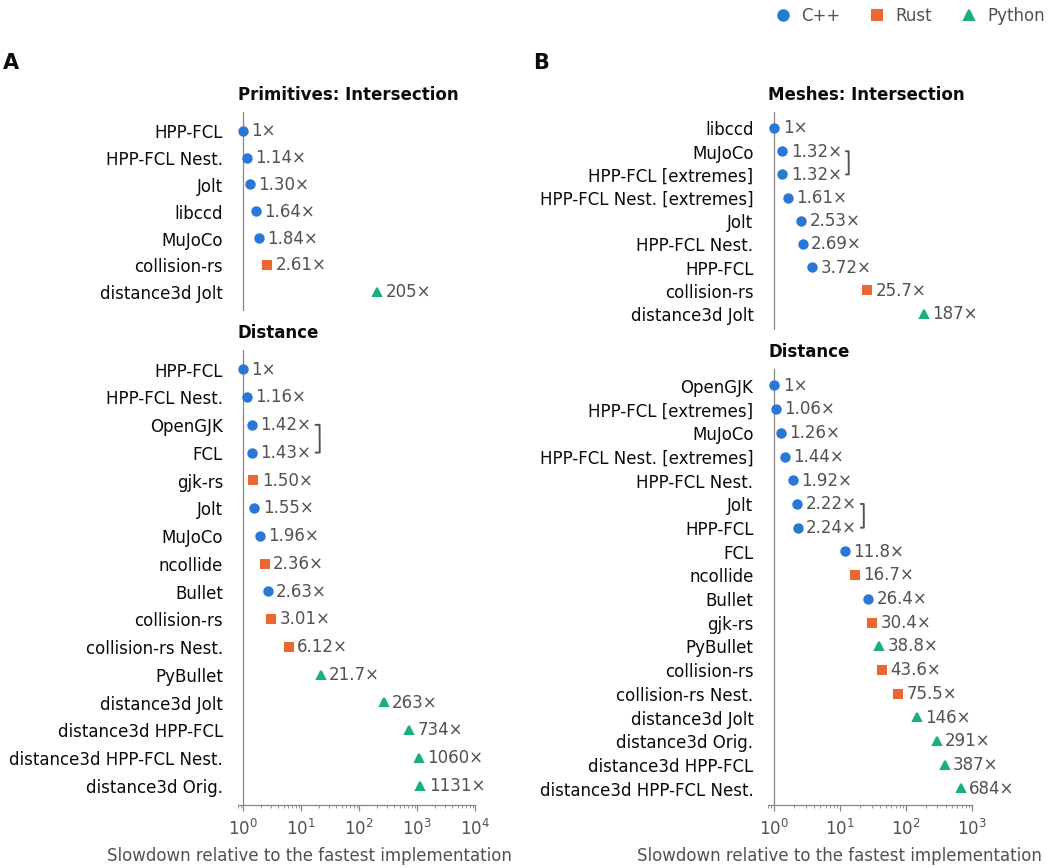
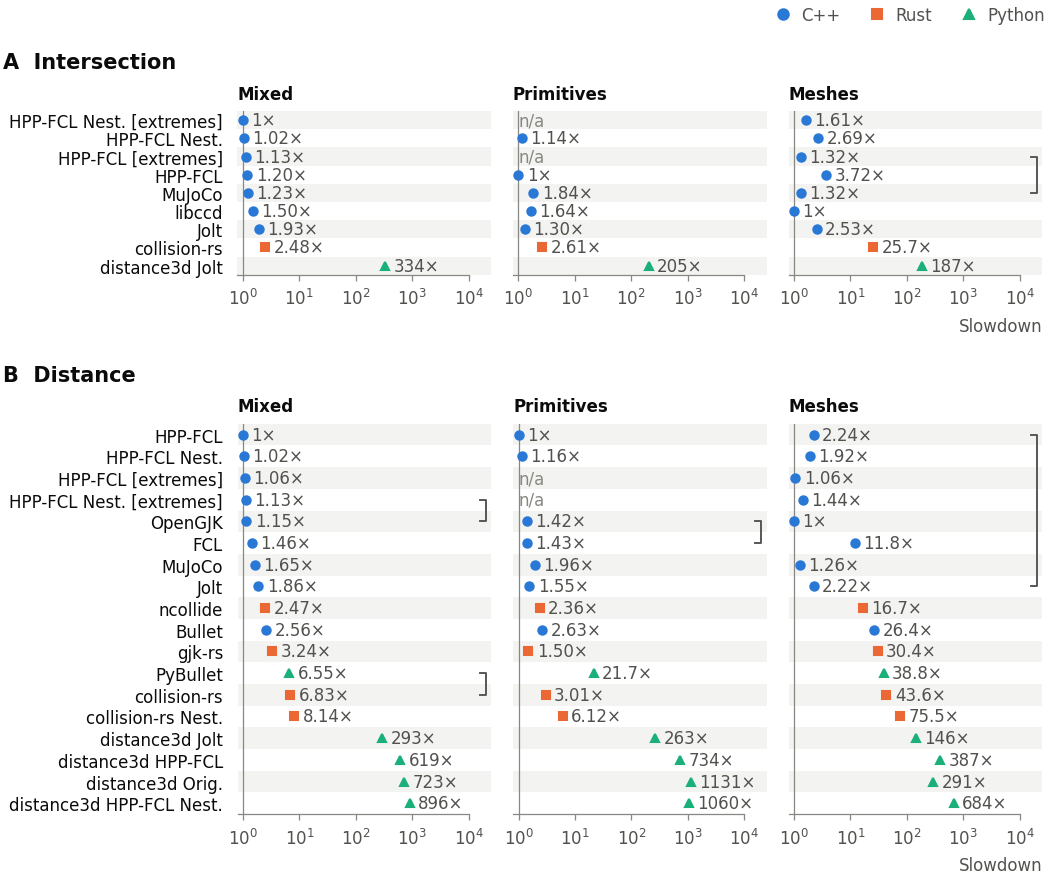
Update slowdown figure

diff --git a/README.md b/README.md
@@ -101,8 +101,10 @@ the support function study), HPP-FCL is also shown with cached extremes in the d
 
 <img src="./doc/results/violin_PC1.png" width="800" />
 
-**Slowdown relative to the fastest implementation** of the same query type (geometric mean of the paired ratios
-with 95 % bootstrap confidence intervals): (A) primitives, (B) meshes.
+**Slowdown relative to the fastest implementation** of the same query type (geometric mean of the paired ratios;
+brackets join implementations whose 95 % bootstrap confidence interval of the paired speedup includes 1):
+(A) intersection, (B) distance, with the columns mixed (TIAGo self-collision, PC1, 2026-11-06), primitives, and
+meshes. The rows are ordered by the mixed benchmark; n/a: not benchmarked with this geometry.
 
 <img src="./doc/results/speedup_vs_fastest_PC1.png" width="800" />
 
